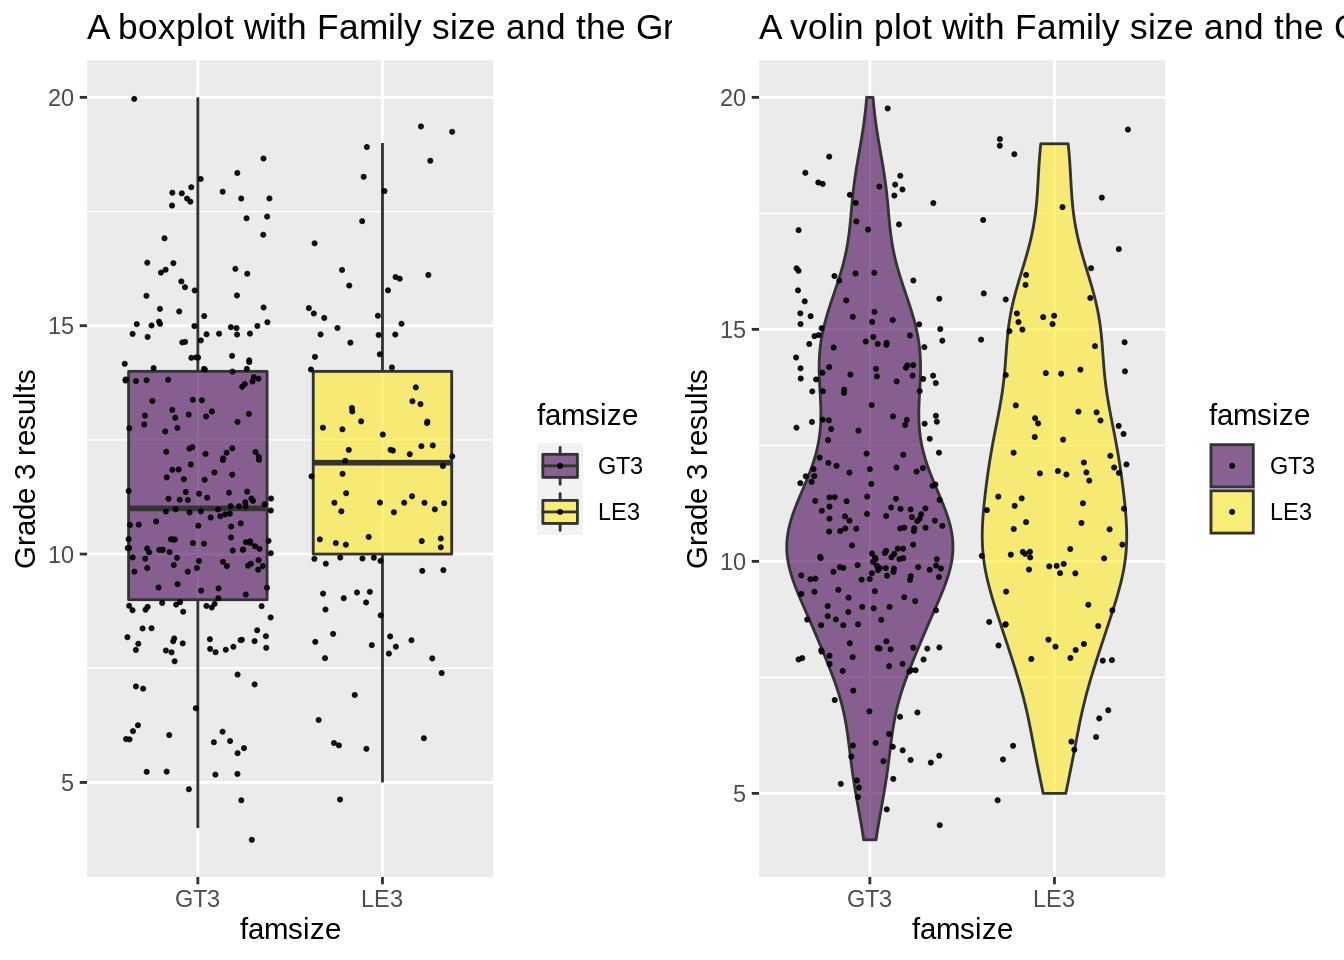
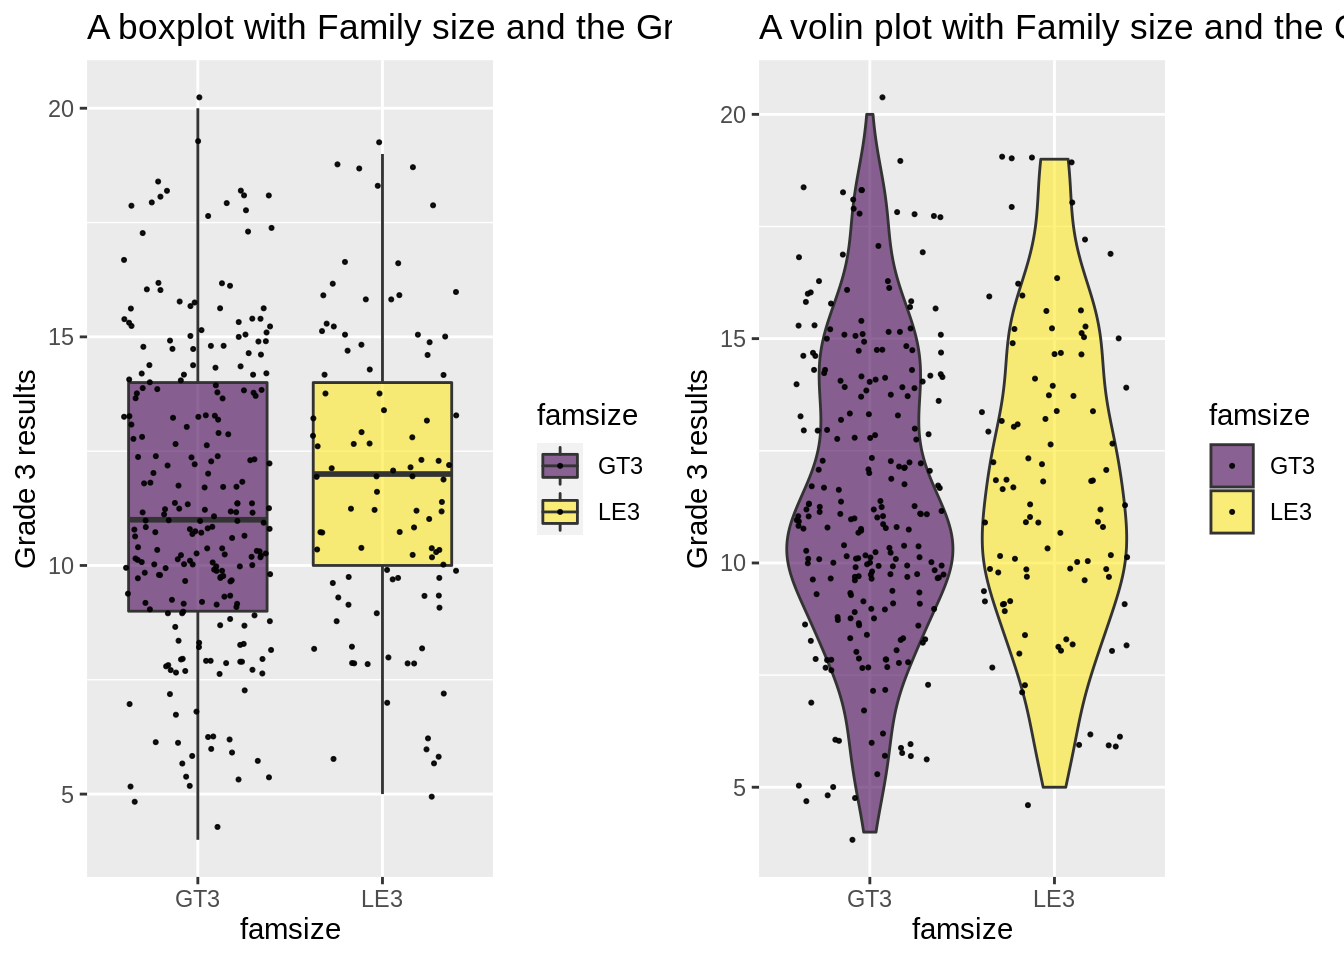
adding mann whitney and correct formulas

diff --git a/docs/posts/studentperf/index.html b/docs/posts/studentperf/index.html
@@ -211,20 +211,18 @@ studentdf<span style="color:#f92672">=</span><span style="color:#a6e22e">merge</
 <p>let’s us pick a random student:</p>
 <div class="highlight"><pre style="color:#f8f8f2;background-color:#272822;-moz-tab-size:4;-o-tab-size:4;tab-size:4"><code class="language-r" data-lang="r">studentdf <span style="color:#f92672">%&gt;%</span> 
   <span style="color:#a6e22e">sample_n</span>(<span style="color:#ae81ff">1</span>) 
-</code></pre></div><pre><code>##   school sex age address famsize pstatus medu fedu   mjob  fjob     reason
-## 1     GP   F  17       U     LE3       T    4    3 health other reputation
-##   nursery internet guardian.x traveltime.x studytime.x failures.x schoolsup.x
-## 1     yes      yes     father            1           2          0          no
-##   famsup.x paid.x activities.x higher.x romantic.x famrel.x freetime.x goout.x
-## 1       no     no          yes      yes        yes        3          2       3
-##   dalc.x walc.x health.x absences.x g1.x g2.x g3.x guardian.y traveltime.y
-## 1      1      2        3         14   13   13   14     father            1
-##   studytime.y failures.y schoolsup.y famsup.y paid.y activities.y higher.y
-## 1           2          0          no       no     no          yes      yes
-##   romantic.y famrel.y freetime.y goout.y dalc.y walc.y health.y absences.y g1.y
-## 1        yes        3          2       3      1      2        3          0   14
-##   g2.y g3.y
-## 1   12   12
+</code></pre></div><pre><code>##   school sex age address famsize pstatus medu fedu  mjob  fjob reason nursery
+## 1     GP   M  17       R     GT3       T    1    3 other other course     yes
+##   internet guardian.x traveltime.x studytime.x failures.x schoolsup.x famsup.x
+## 1      yes     father            3           2          1          no      yes
+##   paid.x activities.x higher.x romantic.x famrel.x freetime.x goout.x dalc.x
+## 1     no          yes      yes         no        5          2       4      1
+##   walc.x health.x absences.x g1.x g2.x g3.x guardian.y traveltime.y studytime.y
+## 1      4        5         20    9    7    8     father            3           2
+##   failures.y schoolsup.y famsup.y paid.y activities.y higher.y romantic.y
+## 1          1          no      yes     no          yes      yes         no
+##   famrel.y freetime.y goout.y dalc.y walc.y health.y absences.y g1.y g2.y g3.y
+## 1        5          2       4      1      4        5         14   12   11   11
 </code></pre>
 <h2 id="population-vs-sample">Population vs Sample</h2>
 <p>We are interested in finding results for the entire population of students that have completed exams in maths and Portuguese in Portugal, but we know that is not possible, so what we have is a sample. We will use this sample to infer things about the population as a whole.</p>
@@ -1503,7 +1501,7 @@ p2 <span style="color:#f92672">&lt;-</span> studentdf <span style="color:#f92672
 </code></pre>
 <p>The t-test yielded a p-value of 0.41 meaning that no statistically significant difference was found.</p>
 <p>To quantify the effect we look for the Effect size. We have saw one of these already with Pearsons Coefficient, Another is Cohen’s d, Cohen’s d can be used as an effect size statistic for a two-sample t-test.
-<img src="cohen.png" width="150%" style="display: block; margin: auto;" /></p>
+<img src="cohen.png" width="100%" style="display: block; margin: auto;" /></p>
 <div class="highlight"><pre style="color:#f8f8f2;background-color:#272822;-moz-tab-size:4;-o-tab-size:4;tab-size:4"><code class="language-r" data-lang="r">res <span style="color:#f92672">&lt;-</span> stats<span style="color:#f92672">::</span><span style="color:#a6e22e">t.test</span>(g3.x<span style="color:#f92672">~</span>famsize, var.equal<span style="color:#f92672">=</span><span style="color:#66d9ef">TRUE</span>, data<span style="color:#f92672">=</span>studentdf)
 <span style="color:#75715e">#Calculate Cohen&#39;s d</span>
 <span style="color:#75715e">#artithmetically</span>
@@ -1515,7 +1513,7 @@ effectsize<span style="color:#f92672">::</span><span style="color:#a6e22e">t_to_
 ## -0.09 | [-0.30, 0.12]
 </code></pre>
 <p>Eta squared
-<img src="eta.png" width="150%" style="display: block; margin: auto;" /></p>
+<img src="eta.png" width="100%" style="display: block; margin: auto;" /></p>
 <div class="highlight"><pre style="color:#f8f8f2;background-color:#272822;-moz-tab-size:4;-o-tab-size:4;tab-size:4"><code class="language-r" data-lang="r">effes<span style="color:#f92672">=</span><span style="color:#a6e22e">round</span>((res<span style="color:#f92672">$</span>statistic<span style="color:#f92672">*</span>res<span style="color:#f92672">$</span>statistic)<span style="color:#f92672">/</span>((res<span style="color:#f92672">$</span>statistic<span style="color:#f92672">*</span>res<span style="color:#f92672">$</span>statistic)<span style="color:#f92672">+</span>(res<span style="color:#f92672">$</span>parameter)),<span style="color:#ae81ff">3</span>)
 effes
 </code></pre></div><pre><code>##     t 
@@ -1785,7 +1783,7 @@ Looking again at the <a href="#testtable">Test Table</a>. We have two independen
 ## alternative hypothesis: true location shift is not equal to 0
 </code></pre>
 <p>Wilcoxon rank sum test tells us the difference is not significant. We now need to calculate Rosenthal’s r:
-<img src="rose.png" width="150%" style="display: block; margin: auto;" /></p>
+<img src="rose.png" width="100%" style="display: block; margin: auto;" /></p>
 <p>We need a z-score for this. We can use qnorm() to get it from the p-value. The z-value is -0.3322507 and N is 382.
 Rosenthal’s r is then -0.0169994</p>
 <p>Reporting:
